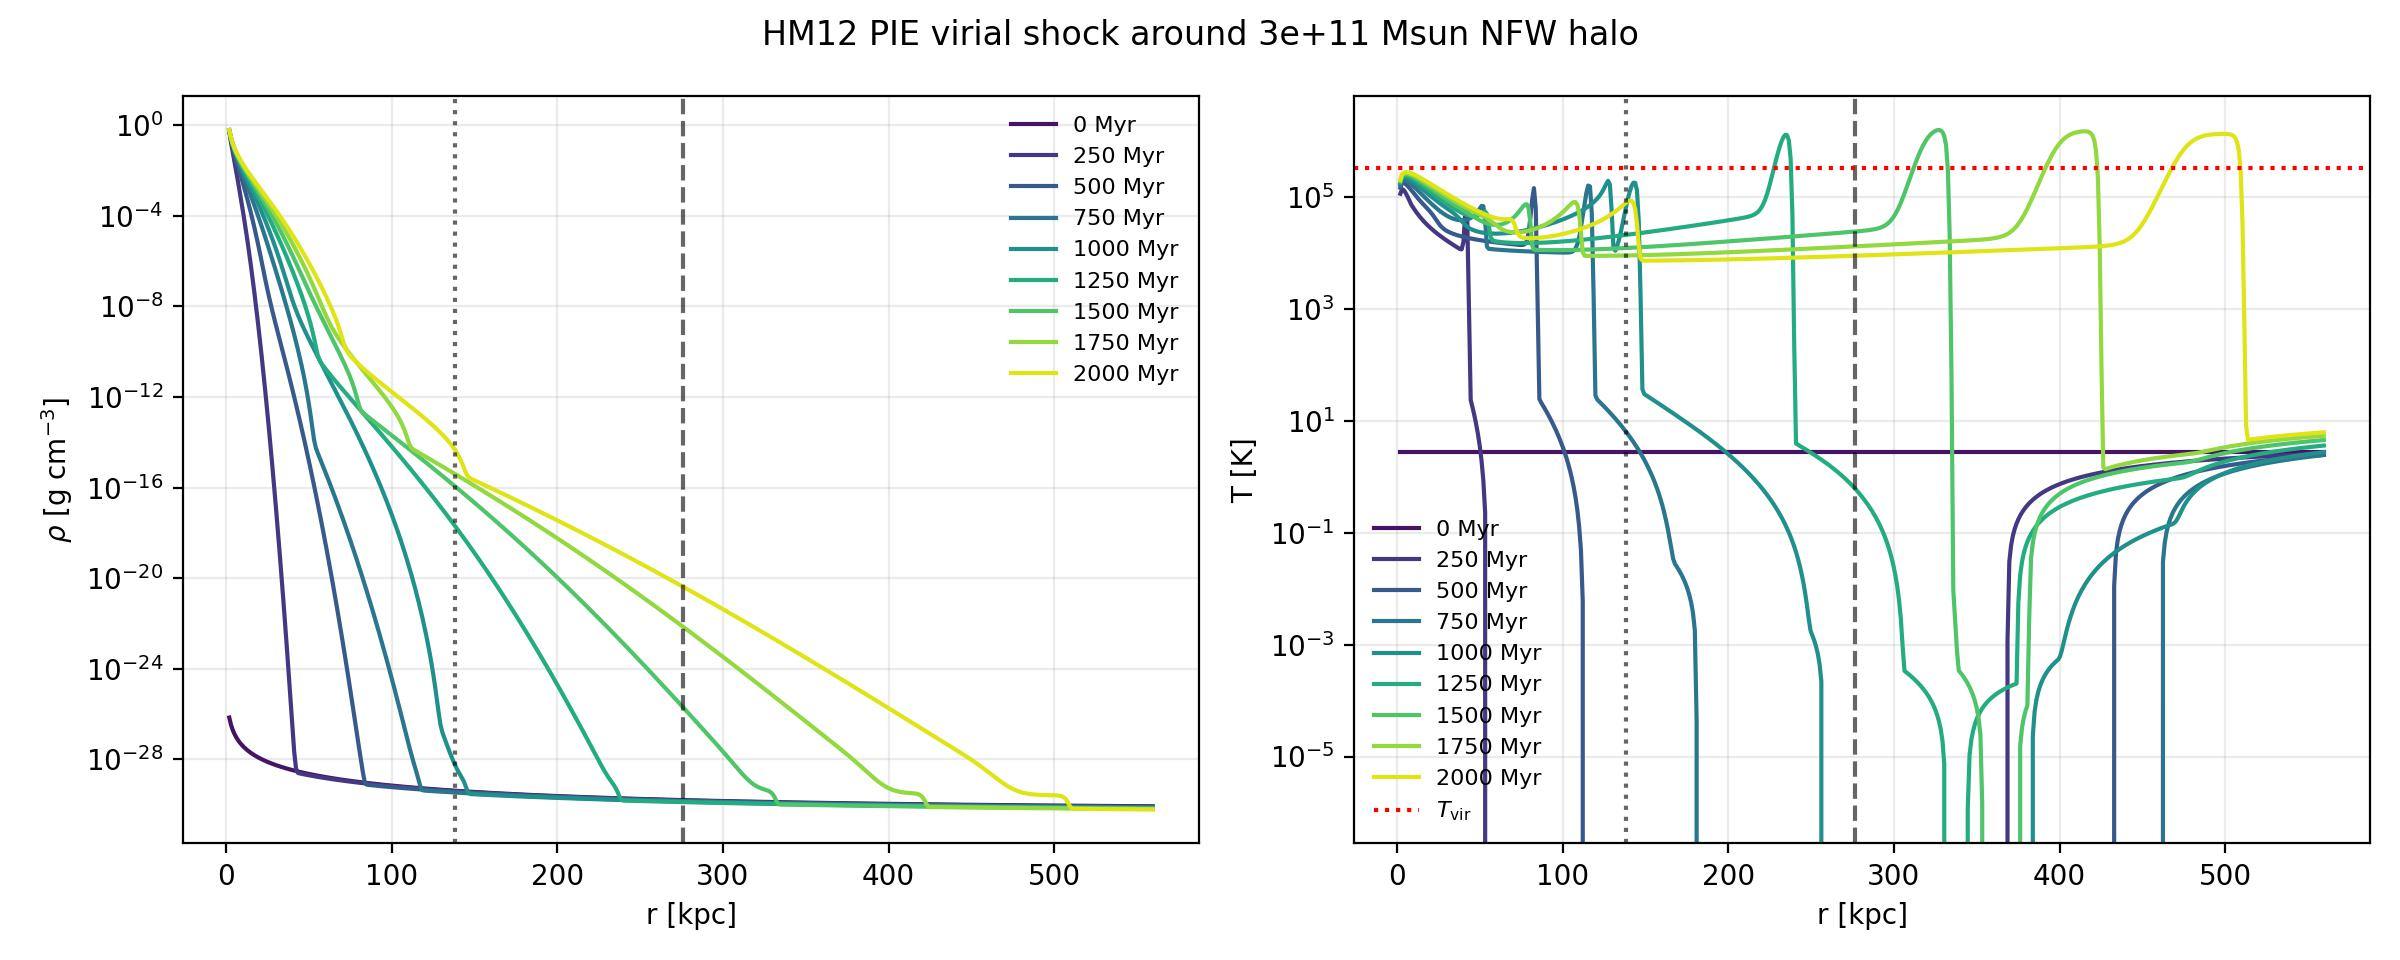
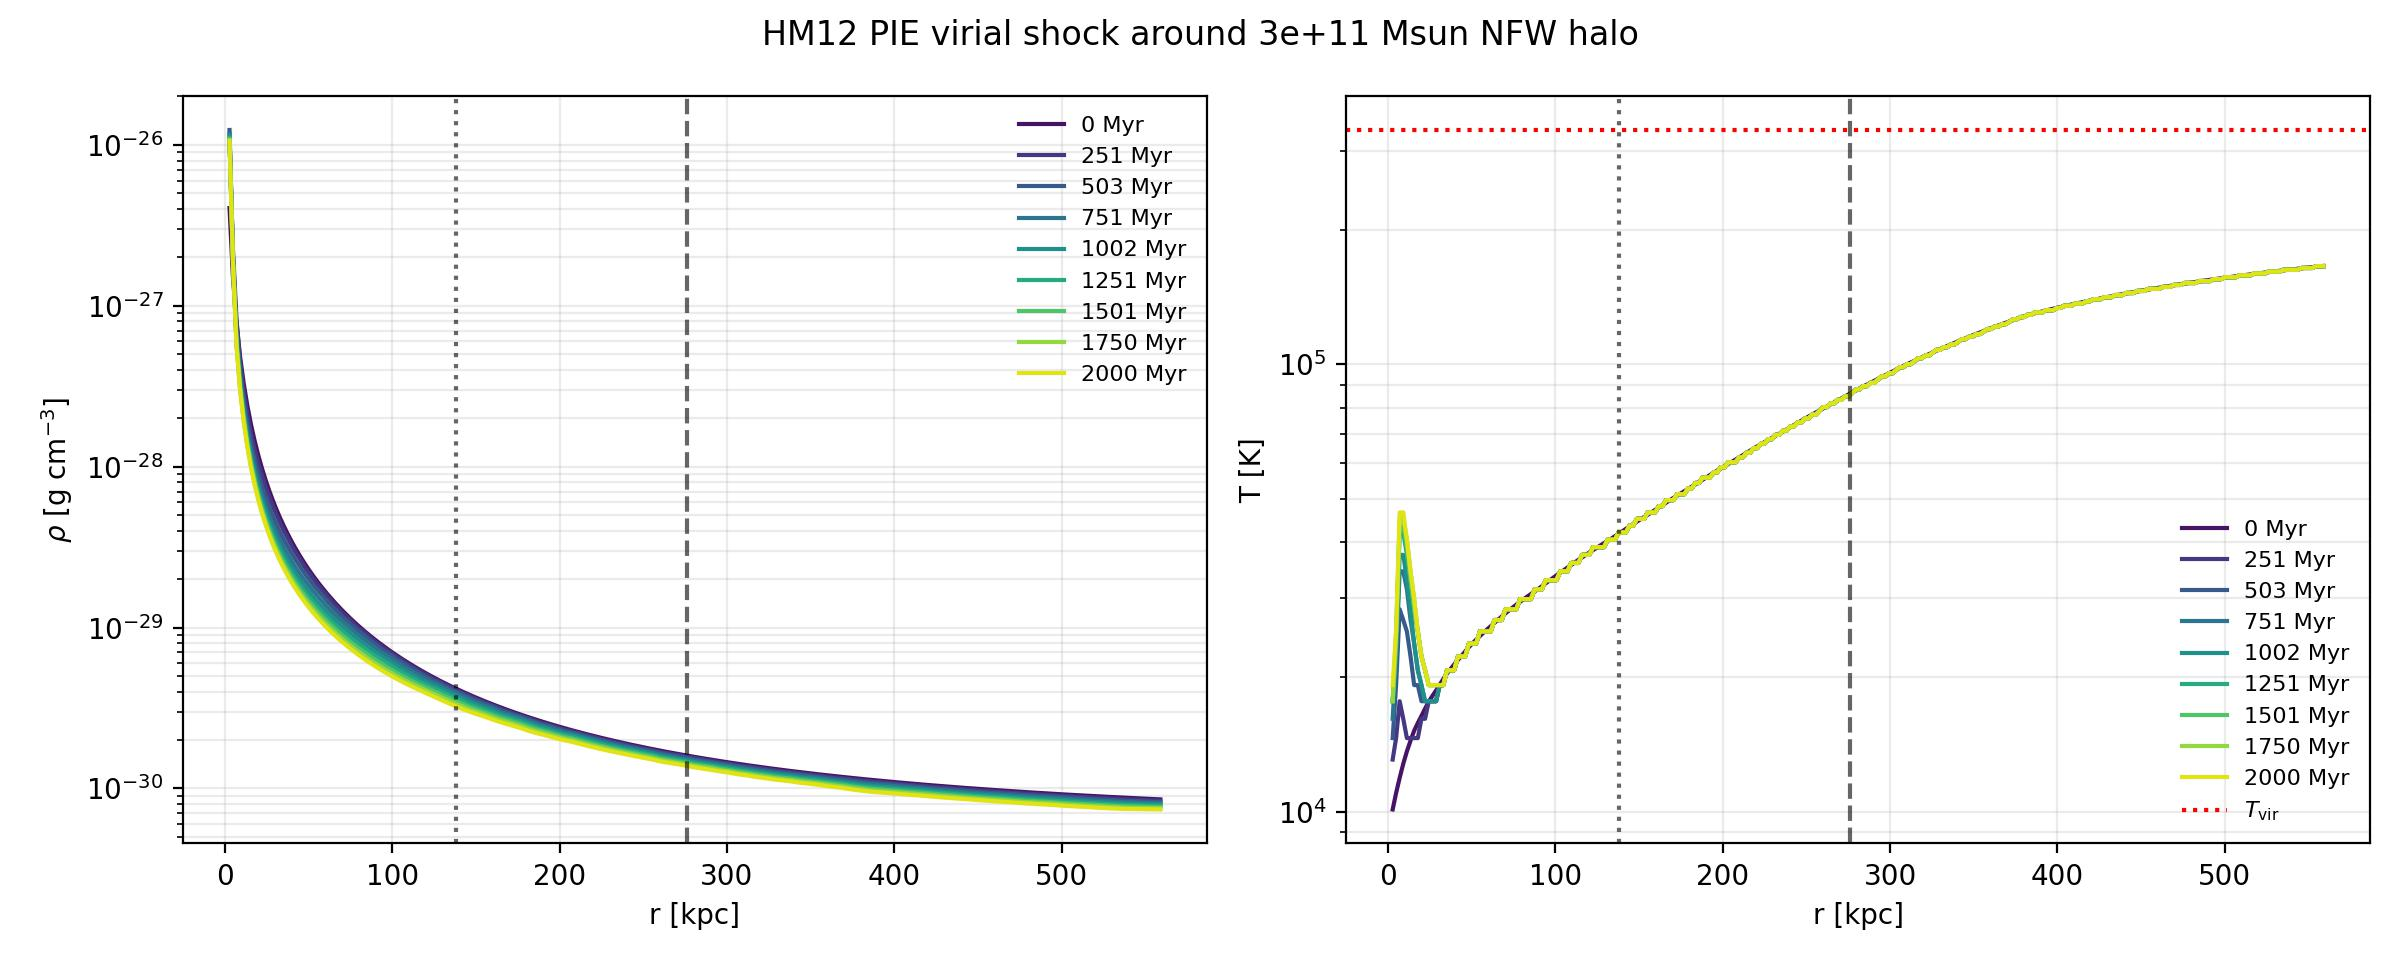
fixed bugs with minimum temperature under PIE UVbackground. Updated the example NFW virial shock.

diff --git a/example/NFWVirialShockPIE1D/tools.py b/example/NFWVirialShockPIE1D/tools.py
@@ -26,10 +26,52 @@ CodeUnits = BASE.CodeUnits
 cosmic_mean_baryon_density = BASE.cosmic_mean_baryon_density
 
 
+def pie_equilibrium_temperature(
+    density, table, hydrogen_mass_fraction, metallicity, redshift
+):
+    """Return the local HM12 PIE thermal-equilibrium temperature.
+
+    The table is sampled over its temperature axis and the zero of
+    ``heating-cooling`` is linearly interpolated in log temperature.  If a
+    density has no sign change in the tabulated range, the closest tabulated
+    state is used rather than extrapolating beyond the PIE table.
+    """
+    density = np.asarray(density, dtype=float)
+    n_h = hydrogen_mass_fraction * density / PROTON_MASS_CGS
+    log_temperature = np.asarray(table.log_temperature, dtype=float)
+    temperature = 10.0 ** log_temperature
+    heating, cooling = table.rates(
+        temperature[:, None], n_h[None, :],
+        metallicity=metallicity, redshift=redshift,
+    )
+    log_ratio = np.log10(np.maximum(heating, 1.0e-99)) - np.log10(
+        np.maximum(cooling, 1.0e-99)
+    )
+    sign_change = log_ratio[:-1] * log_ratio[1:] <= 0.0
+    score = np.abs(log_ratio)
+    crossing_index = np.argmax(sign_change, axis=0)
+    has_crossing = np.any(sign_change, axis=0)
+    closest_index = np.argmin(score, axis=0)
+    index = np.where(has_crossing, crossing_index, closest_index)
+    index = np.clip(index, 0, len(log_temperature) - 2)
+    lower = log_ratio[index, np.arange(density.size)]
+    upper = log_ratio[index + 1, np.arange(density.size)]
+    denominator = upper - lower
+    weight = np.divide(-lower, denominator, out=np.zeros_like(lower), where=denominator != 0.0)
+    equilibrium_log_temperature = log_temperature[index] + weight * (
+        log_temperature[index + 1] - log_temperature[index]
+    )
+    closest_temperature = temperature[closest_index]
+    result = np.where(has_crossing, 10.0 ** equilibrium_log_temperature, closest_temperature)
+    return result * unyt.K
+
+
 class Simwrap(BASE.Simwrap):
     """NFW PIE IC with a correlated, centrally enhanced baryon fluctuation."""
 
-    def __init__(self, icparams, code_units=None):
+    def __init__(self, icparams, code_units=None, pie_table=None,
+                 pie_redshift=0.0, metallicity=1.0,
+                 hydrogen_mass_fraction=1.0):
         super().__init__(icparams, code_units=code_units)
         halo = nfw_halo_parameters(
             icparams['halo_mass'], icparams['concentration'],
@@ -47,6 +89,11 @@ class Simwrap(BASE.Simwrap):
             icparams['h0'], icparams['omega_b'], icparams['initial_redshift']
         )
         self.fluid.rho = mean_density * (1.0 + fluctuation)
+        if pie_table is not None:
+            self.fluid.temp = pie_equilibrium_temperature(
+                self.fluid.rho.to_value(unyt.g / unyt.cm**3),
+                pie_table, hydrogen_mass_fraction, metallicity, pie_redshift,
+            )
 
 
 def _pressure(rho, temperature, mu):

diff --git a/radhydropy/thermo_networks/pie/pie_cooling.py b/radhydropy/thermo_networks/pie/pie_cooling.py
@@ -146,12 +146,27 @@ class PIEUVBGCoolingNetwork(ThermochemistryNetwork):
         old_rate = self.thermal_rate(state, None)
         explicit_energy = old_energy + dt_s * old_rate / rho
         floor_energy = self._energy_at_temperature(state, lower)
+        # The HM12 table does not represent temperatures below its lower
+        # tabulated range.  Cold initial conditions (for example a 2.7 K
+        # cosmological seed) must be placed directly on the configured floor;
+        # sending them through the bracket/retry loop can create an enormous
+        # number of futile source substeps.
+        # At exactly the floor, the gas must still be allowed to heat.  Using
+        # ``<=`` here permanently pinned any cell that touched 100 K, even
+        # when HM12 photoheating was positive and its PIE equilibrium was
+        # near 10^4 K.
+        below_floor = old_temperature < lower_K
+        bracketed &= ~below_floor
         trial_energy = np.where(
-            bracketed,
-            old_energy,
-            np.where(explicit_energy <= floor_energy, floor_energy, old_energy),
+            below_floor,
+            floor_energy,
+            np.where(
+                bracketed,
+                old_energy,
+                np.where(explicit_energy <= floor_energy, floor_energy, old_energy),
+            ),
         )
-        successful = bracketed | (explicit_energy <= floor_energy)
+        successful = below_floor | bracketed | (explicit_energy <= floor_energy)
         if np.any(bracketed):
             # Bisection is deliberately used instead of an unconstrained
             # Newton iteration because the tabulated net rate is not
@@ -227,9 +242,14 @@ class PIEUVBGCoolingNetwork(ThermochemistryNetwork):
             dt_s = remaining_s
             accepted = False
             for _ in range(retries + 1):
-                new_energy, converged = self._implicit_converged_step(
-                    state, old_energy, dt_s, floor_K
-                )
+                if getattr(par, "pie_uvbg_implicit_step_doubling", True):
+                    new_energy, converged = self._implicit_converged_step(
+                        state, old_energy, dt_s, floor_K
+                    )
+                else:
+                    new_energy, converged = self._implicit_energy_step(
+                        state, old_energy, dt_s, floor_K
+                    )
                 if np.all(converged):
                     state["specific_energy_erg_g"] = new_energy
                     accepted = True

diff --git a/example/NFWVirialShockPIE1D/nfw_virial_shock_pie1d.py b/example/NFWVirialShockPIE1D/nfw_virial_shock_pie1d.py
@@ -52,12 +52,34 @@ def main(config_filename=DEFAULT_CONFIG):
     eu.clean_previous_outputs(runparams)
     os.makedirs(runparams['outdir'], exist_ok=True)
     code_units = et.CodeUnits.from_mapping(runparams['CodeUnits'])
+    pie_table = diag.MetalPIETable(runparams['metal_pie_table_filename'])
     halo = et.nfw_halo_parameters(
         icparams['halo_mass'], icparams['concentration'], icparams['redshift'],
         icparams['overdensity'], icparams['h0'],
     )
-    initial_condition = diag.Simwrap(icparams, code_units=code_units)
+    initial_condition = diag.Simwrap(
+        icparams,
+        code_units=code_units,
+        pie_table=pie_table,
+        pie_redshift=runparams['metal_pie_redshift'],
+        metallicity=runparams['metallicity'],
+        hydrogen_mass_fraction=runparams['hydrogen_mass_fraction'],
+    )
+    # OutflowSph copies these values into the inner ghost cells.  Match them
+    # to the innermost physical PIE-equilibrium cell for every halo variant;
+    # the generic defaults (1 g cm^-3, 0 K) create a spurious central spike.
+    inner = initial_condition.fluid
+    runparams['vel_outflow'] = inner.vel[0].to('km/s')
+    runparams['rho_outflow'] = inner.rho[0].to('g/cm**3')
+    runparams['temp_outflow'] = inner.temp[0].to('K')
+    runparams['mu_outflow'] = float(icparams['mu'])
     rio.writehdf5(initial_condition, runparams['ICfilename'])
+    print(
+        'initial HM12 PIE temperature = %.6g--%.6g K' % (
+            initial_condition.fluid.temp.min().to_value(unyt.K),
+            initial_condition.fluid.temp.max().to_value(unyt.K),
+        )
+    )
 
     sim = Rsim(runparams)
     sim.Callreadhdf5()
@@ -73,7 +95,8 @@ def main(config_filename=DEFAULT_CONFIG):
         coordinate=sim.mesh.coordinate.copy(),
         code_units=sim.par.CodeUnits,
     )
-    sim.Run(mode='hydro')
+    # PIE heating/cooling is a source update coupled to the hydro step.
+    sim.Run(mode='hydro_sources')
 
     output_files = [
         os.path.join(runparams['outdir'], name)

diff --git a/radhydropy/rsim.py b/radhydropy/rsim.py
@@ -407,6 +407,11 @@ class Rsim():
                     advect_chemistry=advect_chemistry,
                 )
                 result["hydro_steps"] = 1
+                # The SSPRK2 helper advances time itself.  The Euler path
+                # must advance it here; hydro_sources advances it after the
+                # source update below.
+                if mode == "hydro":
+                    self.fluid.time += dt
 
         if mode in ("hydro_sources", "sources"):
             source_result = self.ApplyThermochemistrySources(
@@ -417,6 +422,8 @@ class Rsim():
             # Source updates can change temperature, pressure, and chemistry
             # fields, so refresh the boundary state before the next loop.
             if mode == "sources":
+                self.fluid.time += dt
+            elif mode == "hydro_sources" and hydro_integrator == "euler":
                 self.fluid.time += dt
             self.solver.SetBoundary(self.mesh, self.fluid, self.par)
             self.solver.SetConserved(self.mesh, self.fluid, verbose=getattr(self.par, 'verbose', 0))

diff --git a/radhydropy/io.py b/radhydropy/io.py
@@ -564,7 +564,10 @@ def run_with_output_times(
             )
         if stop_condition is not None and stop_condition(sim):
             break
-        if abs(float(np.asarray(sim.fluid.time, dtype=float)) - target_time_value) <= time_tol:
+        # Euler/source steps can cross a target by a roundoff- or CFL-sized
+        # amount.  Treat the first state at or beyond the target as the
+        # requested snapshot instead of silently dropping the output.
+        if float(np.asarray(sim.fluid.time, dtype=float)) >= target_time_value - time_tol:
             sim.fluid.SetTemperature()
             write_numbered_hdf5(sim, outindex)
             last_output_time_s = float(np.asarray(sim.fluid.time, dtype=float))

diff --git a/radhydropy/params.py b/radhydropy/params.py
@@ -60,6 +60,7 @@ refparams = {
     'pie_uvbg_implicit_tolerance': 1.0e-3,
     'pie_uvbg_implicit_max_retries': 8,
     'pie_uvbg_implicit_max_iterations': 64,
+    'pie_uvbg_implicit_step_doubling': True,
     'chemistry_key': 'H',
     'hydrogen_chemistry': False,
     'hydrogen_mass_fraction': 1.0,

diff --git a/example/NFWVirialShockPIE1D/README.rst b/example/NFWVirialShockPIE1D/README.rst
@@ -18,6 +18,18 @@ towards the halo. These parameters are the simplified IC controls for the
 linear-correlation-function perturbation described by Birnboim and Dekel; the
 fluctuation amplitude sets the collapse strength and timing.
 
+The default run uses 256 radial cells so the implicit table-based PIE source
+update remains tractable for the 2 Gyr experiment.
+The example disables the optional implicit step-doubling error estimate; the
+thermal update itself remains backward-Euler implicit.
+
+The initial gas temperature is not set to the CMB temperature. For every
+cell, the IC builder solves ``Gamma_HM12(T, nH) - Lambda_HM12(T, nH) = 0`` at
+``z=0`` using the downloaded HM12 PIE table. If the table has no equilibrium
+crossing at a particular density, the nearest tabulated temperature is used.
+The inner ``OutflowSph`` state is matched to the innermost PIE-equilibrium
+cell so the generic unit-density ghost state cannot contaminate the shock.
+
 Run it from this directory::
 
    python nfw_virial_shock_pie1d.py
